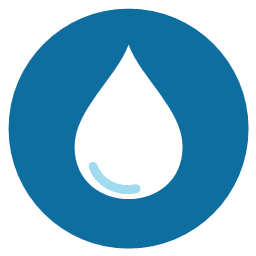
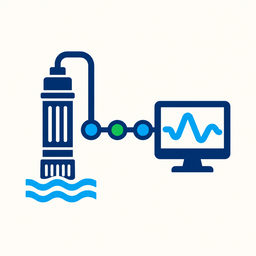
Update Pentek integration branding

diff --git a/README.md b/README.md
@@ -18,6 +18,12 @@
 > maintainers are not responsible for equipment damage, property damage, injury,
 > downtime, data loss, or other consequences arising from its use.
 
+<p align="center">
+  <img src="docs/images/pid50-network-monitor-logo.png"
+       alt="Well pump connected to a network monitoring display"
+       width="420">
+</p>
+
 A local, read-only Home Assistant integration for the Pentek IntelliDrive PID50
 variable-frequency pump controller through a Modbus TCP-to-RS-485 gateway.
 
